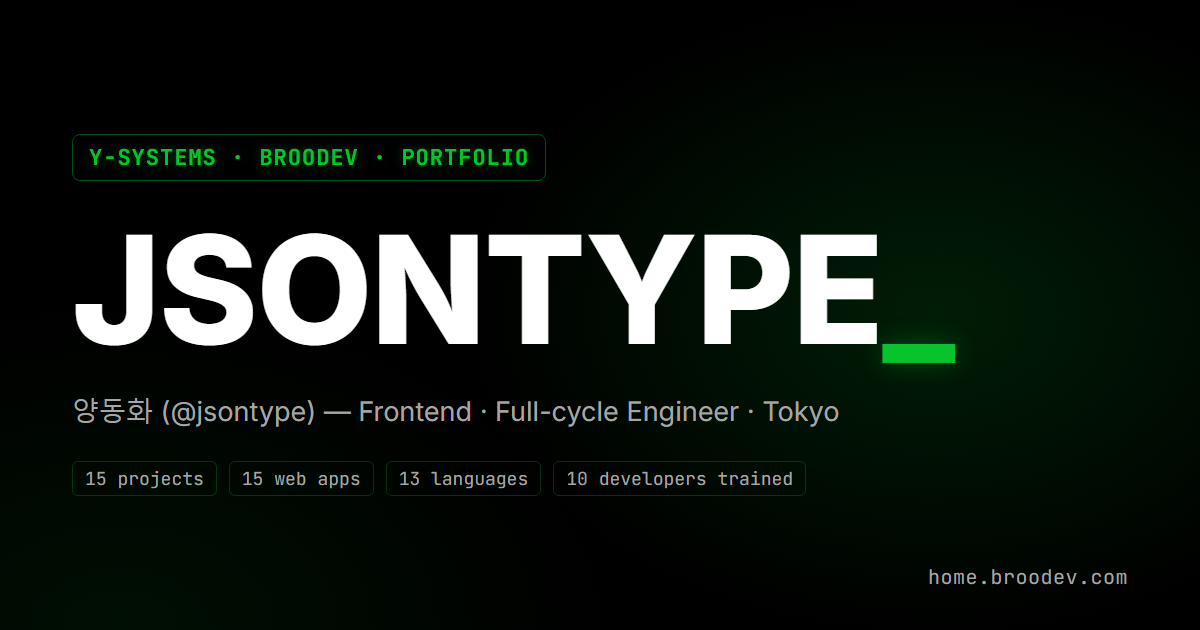
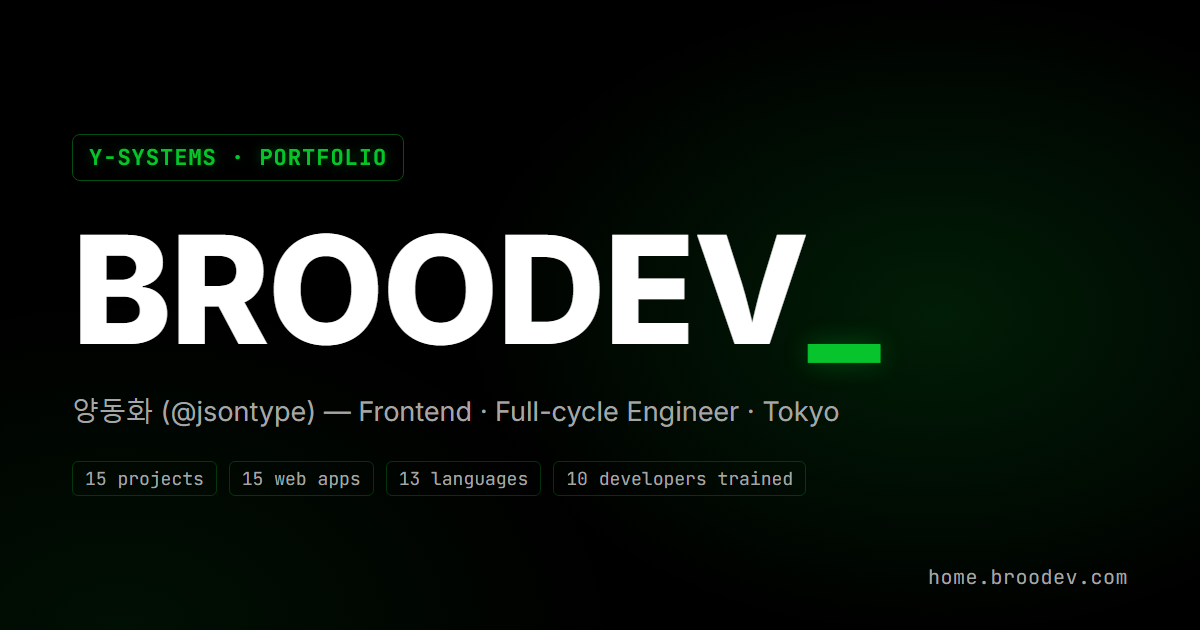
feat(home3): 히어로 제목·프리로더 JSONTYPE → BROODEV (OG 썸네일 재생성)
- 히어로 BROODEV_ · 프리로더 사이트명 BROODEV · og:image:alt · OG 이미지(scripts/og/gen_og.mjs home3) · README/ARCHITECTURE
- 렌더 검증: 히어로 텍스트 BROODEV_, 프리로더 제거, JS 예외 0

Changed region(s): [[0.0617, 0.3619, 0.8017, 0.6032], [0.2158, 0.2111, 0.4625, 0.2714], [0.2467, 0.5429, 0.2775, 0.573]]

diff --git a/apps/home/home3/index.html b/apps/home/home3/index.html
@@ -16,7 +16,7 @@
     <meta property="og:image" content="https://home.broodev.com/og-image.png">
     <meta property="og:image:width" content="1200">
     <meta property="og:image:height" content="630">
-    <meta property="og:image:alt" content="JSONTYPE_ — 양동화 (@jsontype) 포트폴리오">
+    <meta property="og:image:alt" content="BROODEV_ — 양동화 (@jsontype) 포트폴리오">
     <meta name="twitter:card" content="summary_large_image">
     <meta name="twitter:title" content="양동화 (@jsontype) — 포트폴리오 · Y-Systems">
     <meta name="twitter:image" content="https://home.broodev.com/og-image.png">
@@ -49,7 +49,7 @@
     <link rel="stylesheet" href="assets/css/slick.theme.css">
     <link rel="stylesheet" type="text/css" href="assets/css/styles.css">
     <style>
-        /* 템플릿 보정 — 히어로 이름이 9글자(JSONTYPE_)라 한 단계 작게, 한글 줄바꿈은 어절 단위 */
+        /* 템플릿 보정 — 히어로 제목(BROODEV_, 8글자)이 템플릿 기본보다 길어 한 단계 작게, 한글 줄바꿈은 어절 단위 */
         .section-hero-v1 .davies-large { font-size: clamp(64px, 12.5vw, 156px); line-height: clamp(80px, 11.5vw, 144px); }
         body { word-break: keep-all; overflow-wrap: anywhere; }
         .benefit-list a { color: inherit; text-decoration: none; }
@@ -85,7 +85,7 @@
 
     <!-- Preload -->
     <div class="preloader overflow-hidden">
-        <div class="site-name"><span>JSONTYPE</span></div>
+        <div class="site-name"><span>BROODEV</span></div>
         <div class="preloader-gutters">
             <div class="bar">
                 <div class="inner-bar"></div>
@@ -212,7 +212,7 @@
                                 </ul>
                                 <div class="davies-large">
                                     <div class="effectFade fadeRotateX">
-                                        JSONTYPE<span class="text-primary">_</span>
+                                        BROODEV<span class="text-primary">_</span>
                                     </div>
                                 </div>
                             </div>

diff --git a/ARCHITECTURE.md b/ARCHITECTURE.md
@@ -186,7 +186,7 @@ btc와 **동일 구조**, 코인만 파라미터화. 목록:
 
 ### 6.5b home3 — `home.broodev.com` (현재 활성 · `apps/home/home3`)
 - **업적 포트폴리오 v3 — home2 의 다음 버전.** Davies 템플릿(themesflat · Bootstrap 5 · GSAP ScrollTrigger/SplitText · Swiper · Slick · Odometer)을 2026-10-02 통합한 뒤 **텍스트 전부 교체**. 사진·영상은 템플릿 원본(교체 예정). 블로그·랜딩·version-2 등 템플릿 부속 페이지는 가져오지 않음.
-- 원페이지: 히어로(JSONTYPE_) · SELECTED WORKS 3건(slick) · 업적 전체 15건(swiper 카드, 회사 익명화) · 하는 일 3종 · 일하는 방식 3단계 · ABOUT + 경력 · TECH STACK · 분야별 건수 · IMPACT HIGHLIGHTS(성과 인용 4건, 템플릿 testimonial 재활용) · 숫자(15·15·10) · broodev 앱 15개(템플릿 pricing 재활용) · FAQ 5 · 연락. 상세 [`apps/home/home3/README.md`](apps/home/home3/README.md).
+- 원페이지: 히어로(BROODEV_) · SELECTED WORKS 3건(slick) · 업적 전체 15건(swiper 카드, 회사 익명화) · 하는 일 3종 · 일하는 방식 3단계 · ABOUT + 경력 · TECH STACK · 분야별 건수 · IMPACT HIGHLIGHTS(성과 인용 4건, 템플릿 testimonial 재활용) · 숫자(15·15·10) · broodev 앱 15개(템플릿 pricing 재활용) · FAQ 5 · 연락. 상세 [`apps/home/home3/README.md`](apps/home/home3/README.md).
 - **13개 언어 i18n(2026-10-02)**: 사전 `assets/js/i18n-data.js`(160키 × 13) + 런타임 `assets/js/i18n.js`, 마크업 `data-i18n`/`data-i18n-html`. 감지 localStorage → `?lang` → 브라우저 언어 → en. 헤더 🌐 풀다운 순서 English · 日本語 · 한국어 · (btc 와 같은 10개). 슬라이더 복제·SplitText 전에 적용해야 하므로 jquery 직후 실행, 언어 변경은 새로고침. hreflang 13개.
 - **모바일 블랙아웃 수정(2026-10-02)**: 템플릿 프리로더가 `window.load`+GSAP 에 묶여 폰에서 검은 화면만 남던 문제 — `gsapAnimation.js` 가 DOM 준비 즉시 시작 + 2초 워치독으로 프리로더를 반드시 제거, 영상은 `preload="none"` + `data-src` 로 프리로더 뒤/뷰포트 근접 시 로드, 히어로는 H.264 `corridor.mp4` 우선(Safari). 상세 [`apps/home/home3/README.md`](apps/home/home3/README.md).
 - React·테마·AdSense **없음**. 연락 폼은 백엔드 없이 **mailto** 로 연다. 404 는 같은 셸의 `404.html`. 공유 썸네일 `og-image.png` 는 `scripts/og/gen_og.mjs` 생성.

diff --git a/apps/home/home3/README.md b/apps/home/home3/README.md
@@ -10,7 +10,7 @@ Davies 템플릿(themesflat · v0.1.0 · 2025-10)을 2026-10-02 통합한 뒤 **
 
 | 섹션 | 내용 | 출처 |
 |---|---|---|
-| 히어로 | `JSONTYPE_` · 역할 3줄 · 한 줄 소개 · OPEN FOR COLLABORATION | home1 `WHOAMI_TEXT` |
+| 히어로 | `BROODEV_`(프리로더 사이트명도 BROODEV) · 역할 3줄 · 한 줄 소개 · OPEN FOR COLLABORATION | home1 `WHOAMI_TEXT` |
 | SELECTED WORKS (slick) | 대표 업적 3건 — Z사 AI 채용 · N사 결제 부정이용 방지 · C사 AI 교과서 | 스킬시트 |
 | 업적 전체 (swiper 카드) | **15건** — 회사(익명)·분야·공헌도·연도 | home2 `blog.html` |
 | 하는 일 | WEB BUILD · GLOBAL SHIP · TEACH & SHARE + 세부 5줄씩 | home1 `SERVICES` |
@@ -37,7 +37,7 @@ Davies 템플릿(themesflat · v0.1.0 · 2025-10)을 2026-10-02 통합한 뒤 **
 
 ## 모바일 — 프리로더 · 영상 (2026-10-02 수정)
 
-**증상:** PC 는 정상인데 폰에서는 검은 화면(JSONTYPE 프리로더)만 보였다.
+**증상:** PC 는 정상인데 폰에서는 검은 화면(프리로더 사이트명만)만 보였다.
 **원인(헤드리스 Edge + DevTools 프로토콜로 재현):** 템플릿 원본은 `window.load` 뒤에 GSAP 바 애니메이션을 돌리고 그 끝에야 프리로더를 지웠다. ① 히어로 `corridor.webm`(4 MB)·소개 `davies-video.mp4`(1.5 MB)가 `load` 를 수 초~수십 초 지연(1.5 Mbps 에뮬레이션에서 12초 뒤에도 DOM 파싱조차 미완), ② 캐시가 따뜻하면 반대로 jQuery ready 콜백보다 `load` 가 먼저 떠 핸들러가 영영 안 불림, ③ 백그라운드 탭·절전 모드에선 rAF 가 멈춰 GSAP 이 진행 안 됨.
 **수정:**
 - `gsapAnimation.js` `loader()`: DOM 준비 즉시 바 애니메이션 시작 + **2초 워치독**(`finishPreloader`, 멱등)으로 무조건 프리로더 제거 → `runAnimations()`(단계별 try/catch — 한 단계가 죽어도 `.effectFade` 표시 단계는 돈다) → `home3:ready` 이벤트.
